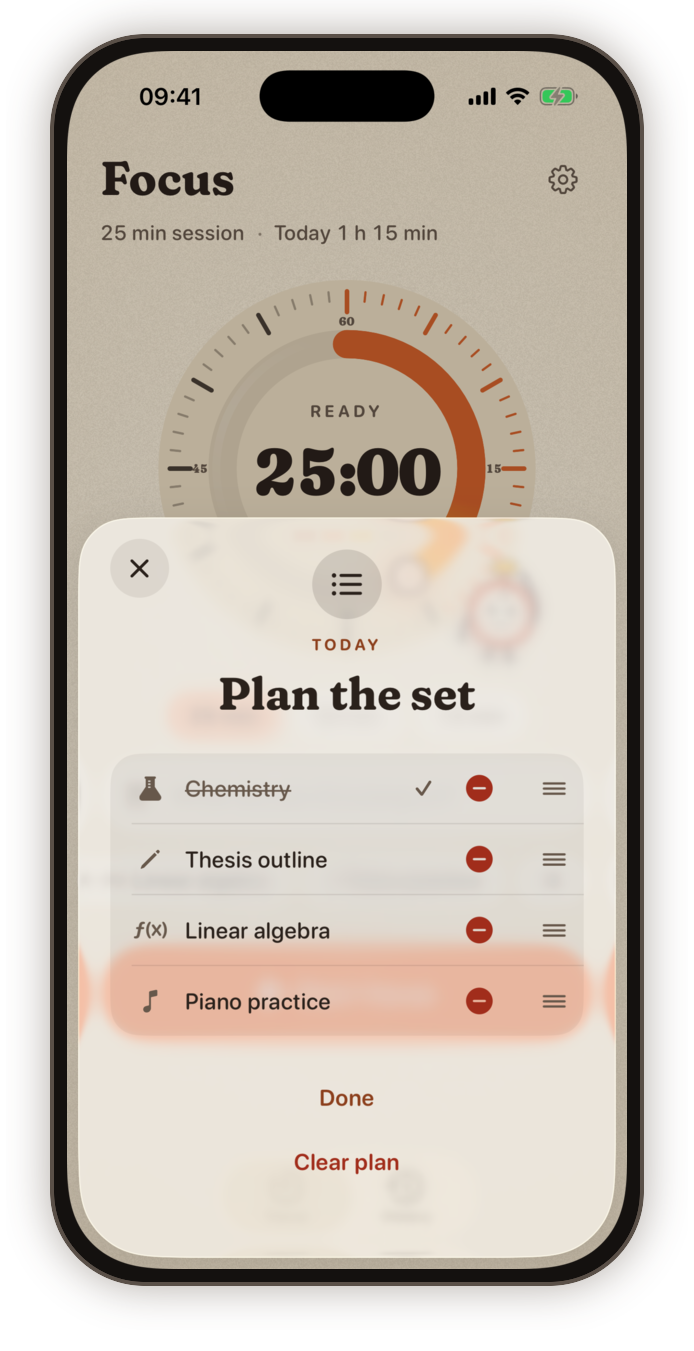
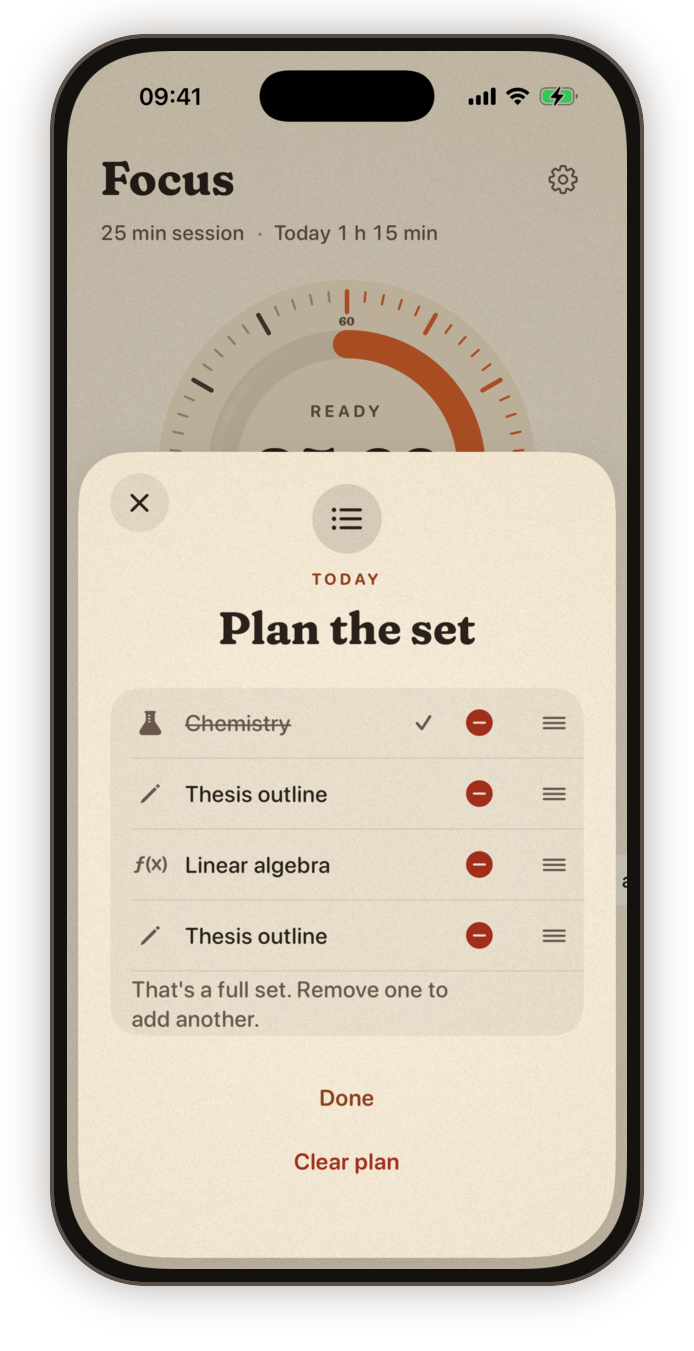
Retake the plan, park, Focus and subject page screenshots and describe the changes (closes #112)

diff --git a/Clockin/Debug/DemoHistory.swift b/Clockin/Debug/DemoHistory.swift
@@ -18,8 +18,9 @@ enum DemoHistory {
 
     static let names = ["Chemistry", "Spanish vocab", "Thesis outline", "Linear algebra",
                         "Reading: Dune", "Journaling", "Piano practice", "Emails"]
-    /// Today's plan, as `-DemoData` sets it: the first one done this morning.
-    static let plan = ["Chemistry", "Thesis outline", "Linear algebra", "Piano practice"]
+    /// Today's plan, as `-DemoData` sets it: the first one done this morning,
+    /// and one subject twice.
+    static let plan = ["Chemistry", "Thesis outline", "Linear algebra", "Thesis outline"]
     /// Symbols picked by hand: one overriding its suggestion, one the same as it.
     static let picks = ["Thesis outline": "pencil", "Emails": "envelope.fill"]
 

diff --git a/Clockin/Debug/DemoData.swift b/Clockin/Debug/DemoData.swift
@@ -55,7 +55,8 @@ enum DemoData {
         return book
     }
 
-    /// Today's plan: Chemistry, done this morning, then three still to do.
+    /// Today's plan: Chemistry, done this morning, then three still to do
+    /// (Thesis outline twice).
     static func demoPlan(day: Date, doneToday: [String: UUID]) -> SetPlan {
         var plan = SetPlan(day: day)
         for name in DemoHistory.plan { plan.add(name) }

diff --git a/README.md b/README.md
@@ -10,9 +10,9 @@ A retro, one-thing-at-a-time focus timer for iPhone. Name what you're working on
 
 - **Tick:** Clockin's mascot, a little kitchen timer whose ring is its own timer and whose crown is the start button. It leans on the dial and shows how things stand: ready (asleep at night), arms crossed and a foot tapping when paused, a jump when a session's done (proud for the fourth of a set), a kind shrug after a cancel, and feet up with a mug on a break. A focus session is a workout: Tick pulls on boxing gloves and trains in short bursts (jabs, crosses, hooks, kicks), then tires as the time runs out: slower, breathing hard, sweating, hands on knees, with one last flurry before the bell and gloves raised as the champion. Its energy is worked out from the timer, so it's right whenever you look. Settings can make it calm (in guard, no punches) or turn it off; Reduce Motion and Low Power Mode keep it calm and still. Every change springs from one pose to the next, with the face changing behind a blink, and each state has a short entrance (headphones sliding on, a jump with sparkles as the ring sweeps gold, the mug popping into its hand) and a quiet idle life: blinks, a breath now and then, a foot tapping, steam rising. Waiting, it fidgets on its own uneven beat (taps or polishes its crown, checks the dial, stretches, looks round, yawns after 20:00), its eyes follow the knob as you drag it (a raised brow at 5 or 60), and it nods when a name finds its symbol. It catches the thoughts you park and tucks them away. In Calm and Off it wears its headphones only while a focus sound plays. Its crown really is the start button: tap it to start or pause, tap its body and it giggles, and while the alarm rings a tap on Tick stops it. It never sulks, dies or nags, and there's nothing to earn. Tick is on the Lock Screen, in the Dynamic Island and in StandBy with a live ring around its face, on the widget and on the ringing alarm too, and it's the app icon: at work, or on a break if you pick that in Settings.
 - **Focus sounds:** a kitchen timer's tick-tock, brown noise, rain or a fireplace through a focus session, made from scratch by `scripts/make-focus-sounds.py` (rain and fire are two loops of lengths that share no factor, so they don't line up again for half an hour). Pick one from the speaker on the running session, with its own volume, or set the default in Settings › Sounds. It fades in after the wind-up, out on Pause and back on Resume, and out before the bell so the chime or alarm always rings into silence; breaks are silent. It keeps playing on the Lock Screen, pauses for calls, and stops (but the timer doesn't) when headphones come out. A focus sound plays in Silent mode (it's a choice you made) and pauses music and podcasts unless "Mix with other audio" is on. Started from Siri, a widget or the Lock Screen it starts too, where iOS allows; otherwise the menu says it starts when you open Clockin.
-- **Park a thought:** a stray thought mid-session goes in a one-line field from the notepad on the session (or Siri: "Park a thought in Clockin", a Control Center control, or the notepad on the Lock Screen card, which opens the app to the field). Tick catches it; the session says "2 parked", never a score. Parking one keeps the dial and Tick where they are: the keyboard covers the controls, and the slip flies straight to Tick. When the session's done they fold into one quiet row ("2 parked") that opens into a short list to tick off, copy or share; through the break they're waiting too. They stay with the session and show on its card in History. Every thought not yet ticked off is gathered at the top of History ("3 open thoughts"), by subject with the day it was parked, and a cancelled session's under their own heading rather than lost. Ticking one off there draws a pen line through it, then it folds away, with Undo; Clear ticked, Copy all and Share sit underneath. Thoughts never show on the Lock Screen, in a widget or the Live Activity, and never go to the on-device model.
+- **Park a thought:** a stray thought mid-session goes in a one-line field from the notepad on the session (or Siri: "Park a thought in Clockin", a Control Center control, or the notepad on the Lock Screen card, which opens the app to the field). Tick catches it; the session says "2 parked", never a score. Parking one keeps the dial and Tick where they are: the keyboard covers the controls, the title steps aside rather than slide under the status bar, and the slip flies straight to Tick. When the session's done they fold into one quiet row ("2 parked") that opens into a short list to tick off, copy or share; through the break they're waiting too. They stay with the session and show on its card in History. Every thought not yet ticked off is gathered at the top of History ("3 open thoughts"), by subject with the day it was parked, and a cancelled session's under their own heading rather than lost. Ticking one off there draws a pen line through it, then it folds away, with Undo; Clear ticked, Copy all and Share sit underneath. Thoughts never show on the Lock Screen, in a widget or the Live Activity, and never go to the on-device model.
 - **Breaks with something to do, if you like:** Settings › Break › During breaks picks how each break starts, and three quiet chips under the session (Rest · Stretch · Breathe) change it for that break. Rest is Tick with its mug. Stretch has Tick lead a short routine fitted to the break: a neck roll, a shoulder shrug, reaching up, a side stretch, wrist circles and resting the eyes on something far away, about 20 seconds each, as many as fit in 60% of the break (four in a 3-minute break, all six from 5 minutes), named on the dial with a dot for each, then the mug again. Breathe swells a soft avocado halo round the dial four seconds in and shrinks it six seconds out, with "Breathe in" / "Breathe out" on the dial, Tick breathing along, and a soft tap at each turn for eyes-closed breathing. It's all worked out from the timer, so it's right after a relaunch, and none of it is counted. Reduce Motion and Low Power Mode keep the halo and Tick still and only change the words.
-- **Plan the set, if you like:** "Plan the set", first among the recent names, opens a small card to line up to four names for today: from recent names or typed, put in order by dragging (or VoiceOver's Move up and Move down), and removed. Then a strip of them replaces the recent names, ticked as each one's session finishes (at the bell or with Finish now; something else in between leaves the plan alone). When one's done, the next planned name moves from the strip into the name field. It's only for today and goes quietly at midnight, with nothing missed and nothing to keep up: an unfinished plan just isn't there tomorrow. It isn't in backups, and Erase all history clears it.
+- **Plan the set, if you like:** "Plan the set", first among the recent names, opens a small card to line up to four names for today: from recent names or typed, the same one more than once if you like ("Thesis, Thesis, Chemistry"), put in order by dragging (or VoiceOver's Move up and Move down), and removed. A full set says so. Then a strip of them replaces the recent names, with the plan's button always first, ticked as each one's session finishes (at the bell or with Finish now; something else in between leaves the plan alone); a repeated name ticks its first slot still to do. While you type a name, the recent names come back in the strip's place. An empty name field picks up the next planned name (on launch, coming back to the app or after a session), never over a name you typed; clear it and Start makes an unnamed session. When one's done, the next planned name moves from the strip into the name field. It's only for today and goes quietly at midnight, with nothing missed and nothing to keep up: an unfinished plan just isn't there tomorrow. It isn't in backups, and Erase all history clears it.
 - **Break's over:** when a break runs out, the app says so for ten minutes (or until you start, pick a length, or midnight): "Break's over", the next session ("Next: Thesis outline · session 3 of 4", with its symbol) with its name filled in and its pill outlined, the colour turning back to orange, and Tick stretching and yawning before it's ready. With a plan, the next session is the next planned one, here, in the break's alert, on the Lock Screen's Start focus and as the first quick action. Skipping a break goes straight back to waiting.
 - **One session at a time:** focus, pause and resume, or cancel without recording (and undo the cancel for a few seconds). The break starts manually and never counts as focus time.
 - **Your rhythm:** Classic 25/5, Deep 50/10 or Short 15/3, and a 15-minute long break after every fourth full session of the day. "+5 min" in the last five minutes, and "Finish now" to stop early and keep the minutes. Pick the length from chips under the dial or in Settings, or drag the dial's knob like a kitchen timer to any length from 5 to 60 minutes, one detent per five minutes (its break is a fifth of it, 3 to 15 minutes). It applies from the next session.
@@ -20,8 +20,8 @@ A retro, one-thing-at-a-time focus timer for iPhone. Name what you're working on
 - **Calm while it runs:** eight seconds after your last touch, everything round a running dial fades back to the countdown and Pause; a tap brings it back. It stays put while paused, in the last five minutes and with VoiceOver or Switch Control. A paused dial goes still and sepia, and the header says when you paused.
 - **Survives relaunch:** the timer is date-based, so a running session is restored exactly after the app is closed or the phone restarts. A session that finished while the app was closed opens quietly, saying when it finished.
 - **Keeps up with the clock:** "today" moves on at midnight, and on time zone and clock changes, everywhere at once. Setting the clock back can't add time to a session.
-- **A symbol for each name:** every session name gets a small symbol, guessed from the name ("Chemistry" a flask, "Spanish vocab" a globe, "Les" a stack of books, in English and Norwegian) and changed from 24 in a glass grid: tap the symbol at the start of the name field, or Change symbol on a session's card. It belongs to the name, so it shows on every session with it, past and future, in the field, the running session, the summary, History, the recent names, the Live Activity and the widgets. Unnamed sessions keep the book.
-- **History:** today's focused minutes, then a week at a time as session columns and sessions by day, paging back to the first one. Tap a day to see it as a ribbon of its sessions, from start to end, in the order they filled the set; tap a block to open it. Week or Month: the month is a calendar of small dials, each filled to that day's sessions out of four, and a day opens its week. "By subject" shows where the week's time went, by name; tap one for its page, which zooms out of the row: all its minutes and sessions since the first, when in the day it usually happens and how long it usually runs, the last three months as small ink dials for that subject alone, its recent sessions and its open thoughts. Facts only: no best, no streak, no other week to compare with. From the page: Start again, Change symbol, Show in week (the old filter, also in the row's long-press) and Rename everywhere, which renames every session with the name, the one running now, today's plan and the name field, merging into another subject after asking if the name is taken, with Undo. "Share this week" makes a postcard of the week: light paper, the dates, Tick with its mug for a finished week, the total, the week's pills and its three biggest subjects by symbol (names only if you switch them on), settling from a slight tilt before you share it as a 1080 × 1350 image that describes itself. Nothing leaves the phone unless you share it. Tap a session for its card, which zooms out of the row: when it ran, focused and planned minutes, how it ended, any extra minutes beyond the plan and whether it counts toward the set, with Rename, Change symbol, Delete and a way to its subject's page. Long-press a session for the same, plus Open (its subject) and Start again, which sets Focus up with its name and length. Swipe to delete too; both offer Undo. Under the week, one line sums it up ("Mostly mornings this week; Tuesday was your longest day."). On iPhones with Apple Intelligence the on-device model writes it, from session times and lengths only, never names or symbols; everywhere else it's a fixed sentence.
+- **A symbol for each name:** every session name gets a small symbol, guessed from the name ("Chemistry" a flask, "Spanish vocab" a globe, "Les" a stack of books, in English and Norwegian) and changed from 24 in a grid: tap the symbol at the start of the name field, or Change symbol on a session's card. It belongs to the name, so it shows on every session with it, past and future, in the field, the running session, the summary, History, the recent names, the Live Activity and the widgets. Unnamed sessions keep the book.
+- **History:** today's focused minutes, then a week at a time as session columns and sessions by day, paging back to the first one. Tap a day to see it as a ribbon of its sessions, from start to end, in the order they filled the set; tap a block to open it. Week or Month: the month is a calendar of small dials, each filled to that day's sessions out of four, and a day opens its week. "By subject" shows where the week's time went, by name; tap one for its page, which zooms out of the row: all its minutes and sessions since the first, when in the day it usually happens and how long it usually runs, its recent sessions, its open thoughts, then the last three months as small ink dials for that subject alone, this month first and the two before it folded to a line each ("September 2026 · 12 sessions") that opens with a tap. Facts only: no best, no streak, no other week to compare with. From the page: Start again, Change symbol, Show in week (the old filter, also in the row's long-press) and Rename everywhere, which renames every session with the name, the one running now, today's plan and the name field, merging into another subject after asking if the name is taken, with Undo. "Share this week" makes a postcard of the week: light paper, the dates, Tick with its mug for a finished week, the total, the week's pills and its three biggest subjects by symbol (names only if you switch them on), settling from a slight tilt before you share it as a 1080 × 1350 image that describes itself. Nothing leaves the phone unless you share it. Tap a session for its card, which zooms out of the row: when it ran, focused and planned minutes, how it ended, any extra minutes beyond the plan and whether it counts toward the set, with Rename, Change symbol, Delete and a way to its subject's page. Long-press a session for the same, plus Open (its subject) and Start again, which sets Focus up with its name and length. Swipe to delete too; both offer Undo. Under the week, one line sums it up ("Mostly mornings this week; Tuesday was your longest day."). On iPhones with Apple Intelligence the on-device model writes it, from session times and lengths only, never names or symbols; everywhere else it's a fixed sentence.
 - **Appearance:** System, Light or Dark in Settings, following the phone by default. The paper has a faint, still grain (none with Increase Contrast), and the dial's track a hint of Bakelite shine.
 - **Kitchen-timer sounds:** a ratchet click for each five-minute detent of the knob, a wind-up and click on Start, a soft clunk on Pause and a lighter click on Resume. They're system sounds, so Silent mode mutes them and they never stop or duck your music, and they only play for what you do in the app (not Siri, Shortcuts or the Lock Screen). Settings › Sounds turns them off.
 - **English and Norwegian:** every screen, the widget, alerts, Siri phrases and permission prompts. On a Norwegian phone the week line is written in Norwegian when the on-device model can, and is the fixed Norwegian sentence when it can't.
@@ -43,7 +43,7 @@ A retro, one-thing-at-a-time focus timer for iPhone. Name what you're working on
 - **VoiceOver:** the dial says "24 minutes left", updating about once a minute, with Pause/Resume as an action and on the magic tap. While waiting, swipe up or down on it to change the length by five minutes. Durations are read in words, the week strip names each date and says "today", and every widget and Lock Screen surface has its own labels.
 - **Voice Control:** every control answers to what's on screen, e.g. "Tap What are you focusing on" or "Tap Add 5 minutes".
 - **Large text:** the Focus screen scrolls rather than pushing controls off-screen, even at the largest sizes on an iPhone SE. Rows and the completion summary stack, and icon-only buttons offer the Large Content Viewer.
-- **History:** each block on a day's ribbon is a button that reads its name and times ("Chemistry, 19:00 to 19:25"), each day of the month reads its date and sessions, and a session's long-press actions are VoiceOver actions too. At the largest text sizes the month is a list of its days. A subject's page reads its facts as sentences and each day's dial its date and sessions; the plan's names read "Chemistry, 1 of 4, done", with Move up, Move down and Remove as actions.
+- **History:** each block on a day's ribbon is a button that reads its name and times ("Chemistry, 19:00 to 19:25"), each day of the month reads its date and sessions, and a session's long-press actions are VoiceOver actions too. At the largest text sizes the month is a list of its days. A subject's page reads its facts as sentences, then its recent sessions, and each day's dial its date and sessions, with each older month a row that reads as collapsed or expanded; the plan's button comes first in its strip ("Edit plan", which Voice Control also takes as "Plan the set"), and the plan's names read "Chemistry, 1 of 4, done", with Move up, Move down and Remove as actions.
 - **Breaks:** while stretching or breathing, the dial says which stretch it is ("Stretch, 2 of 4, shoulder shrug") or the pace ("Breathe, in for 4 seconds, out for 6") without announcing every move or breath.
 - **Reduce Motion and Differentiate Without Color:** every animation has a calm fallback, and the session in progress is a dashed pill, not just a different colour.
 
@@ -51,7 +51,7 @@ A retro, one-thing-at-a-time focus timer for iPhone. Name what you're working on
 
 | Focus | Running | Kept going |
 |:---:|:---:|:---:|
-| <img src="docs/screenshots/focus-idle.png" width="250" alt="Focus screen, ready, with Tick leaning on the dial and today's plan under the name field"> | <img src="docs/screenshots/focus-running.png" width="250" alt="A focus session running"> | <img src="docs/screenshots/focus-complete.png" width="250" alt="Session complete, four minutes past the bell, with the overtime lap and Keep +4 min"> |
+| <img src="docs/screenshots/focus-idle.png" width="250" alt="Focus screen, ready, with Tick leaning on the dial, Thesis outline in the name field and today's plan under it, its button first"> | <img src="docs/screenshots/focus-running.png" width="250" alt="A focus session running"> | <img src="docs/screenshots/focus-complete.png" width="250" alt="Session complete, four minutes past the bell, with the overtime lap and Keep +4 min"> |
 
 | Stretch | Breathe | Break's over |
 |:---:|:---:|:---:|
@@ -71,7 +71,7 @@ A retro, one-thing-at-a-time focus timer for iPhone. Name what you're working on
 
 | Focus sound | Park a thought | Parked thoughts |
 |:---:|:---:|:---:|
-| <img src="docs/screenshots/sound-menu.png" width="250" alt="The focus sound menu over a running session: Off, Tick-tock, Brown noise, Rain (ticked) and Fireplace, with a volume slider"> | <img src="docs/screenshots/park-thought.png" width="250" alt="A one-line field above the keyboard during focus, with a thought being typed, the dial and Tick still full size"> | <img src="docs/screenshots/parked-list.png" width="250" alt="Focus complete with Keep +4 min and two parked thoughts folded into one row, Done for now above the tab bar"> |
+| <img src="docs/screenshots/sound-menu.png" width="250" alt="The focus sound menu over a running session: Off, Tick-tock, Brown noise, Rain (ticked) and Fireplace, with a volume slider"> | <img src="docs/screenshots/park-thought.png" width="250" alt="A one-line field above the keyboard during focus, with a thought being typed, the dial and Tick still full size and the title out of the way"> | <img src="docs/screenshots/parked-list.png" width="250" alt="Focus complete with Keep +4 min and two parked thoughts folded into one row, Done for now above the tab bar"> |
 
 | A tip |
 |:---:|
@@ -79,11 +79,11 @@ A retro, one-thing-at-a-time focus timer for iPhone. Name what you're working on
 
 | Plan the set | Break's over, planned | Open thoughts |
 |:---:|:---:|:---:|
-| <img src="docs/screenshots/plan.png" width="250" alt="Plan the set: Chemistry done, then Thesis outline, Linear algebra and Piano practice, each with its symbol, to drag into order or remove"> | <img src="docs/screenshots/break-over-plan.png" width="250" alt="Break's over, with the next planned session, Thesis outline, in the name field and the Next line"> | <img src="docs/screenshots/open-thoughts.png" width="250" alt="Open thoughts in History, by subject with the day each was parked, and the cancelled sessions' under their own heading"> |
+| <img src="docs/screenshots/plan.png" width="250" alt="Plan the set on paper: Chemistry done, then Thesis outline, Linear algebra and Thesis outline again, each with its symbol, to drag into order or remove, and a line saying the set is full"> | <img src="docs/screenshots/break-over-plan.png" width="250" alt="Break's over, with the next planned session, Thesis outline, in the name field and the Next line"> | <img src="docs/screenshots/open-thoughts.png" width="250" alt="Open thoughts in History, by subject with the day each was parked, and the cancelled sessions' under their own heading"> |
 
 | A subject's page | The week's postcard |
 |:---:|:---:|
-| <img src="docs/screenshots/subject-page.png" width="250" alt="Reading: Dune's page: 20 h 47 min over 50 sessions since 14 July, usually in the morning, with its actions and the last three months as small ink dials"> | <img src="docs/screenshots/postcard.png" width="250" alt="The week's postcard before sharing: light paper, the week's dates, Tick ready, 8 h 52 min, the week's pills and the three biggest subjects by symbol, with Show names off"> |
+| <img src="docs/screenshots/subject-page.png" width="250" alt="Reading: Dune's page: 20 h 47 min over 50 sessions since 14 July, usually in the morning, with its actions and its recent sessions"> | <img src="docs/screenshots/postcard.png" width="250" alt="The week's postcard before sharing: light paper, the week's dates, Tick ready, 8 h 52 min, the week's pills and the three biggest subjects by symbol, with Show names off"> |
 
 | Bedside clock | Dynamic Island |
 |:---:|:---:|
@@ -99,7 +99,7 @@ A retro, one-thing-at-a-time focus timer for iPhone. Name what you're working on
 - **One progress language:** every ring and bar shows time left and drains as it runs. The app's dial is a 60-minute kitchen-timer face, so a session unwinds from where you set the knob; the widget, Lock Screen, StandBy and Dynamic Island rings start full. A finished phase is a full mustard ring everywhere. Pills show focus sessions (four per set, filling rust → orange → mustard → avocado), the same everywhere.
 - **Typography:** [Fraunces](https://github.com/undercasetype/Fraunces), a soft 70s serif, for titles, session names and every countdown, including the widget and Live Activity; SF Pro Rounded for everything you read in passing. `scripts/make-fonts.sh` builds three static cuts from the variable font and gives them tabular digits, which Fraunces doesn't ship, so the countdown never shifts sideways. Small tracked labels carry the appliance feel.
 - **One system:** a spacing scale with one screen edge, a type scale that follows Dynamic Type and Bold Text, motion tokens with Reduce Motion fallbacks, and one recipe for small modals (a close button, a centred header, grouped rows, then the actions). Destructive actions read in rust.
-- **Liquid Glass:** a prominent glass primary button, a session field that morphs into the session chip, glass chips, and card sheets that float at the height of their content.
+- **Liquid Glass:** a prominent glass primary button, a session field that morphs into the session chip, glass chips, and card sheets that float at the height of their content, on paper so nothing behind them shows through.
 
 ## Credits
 
